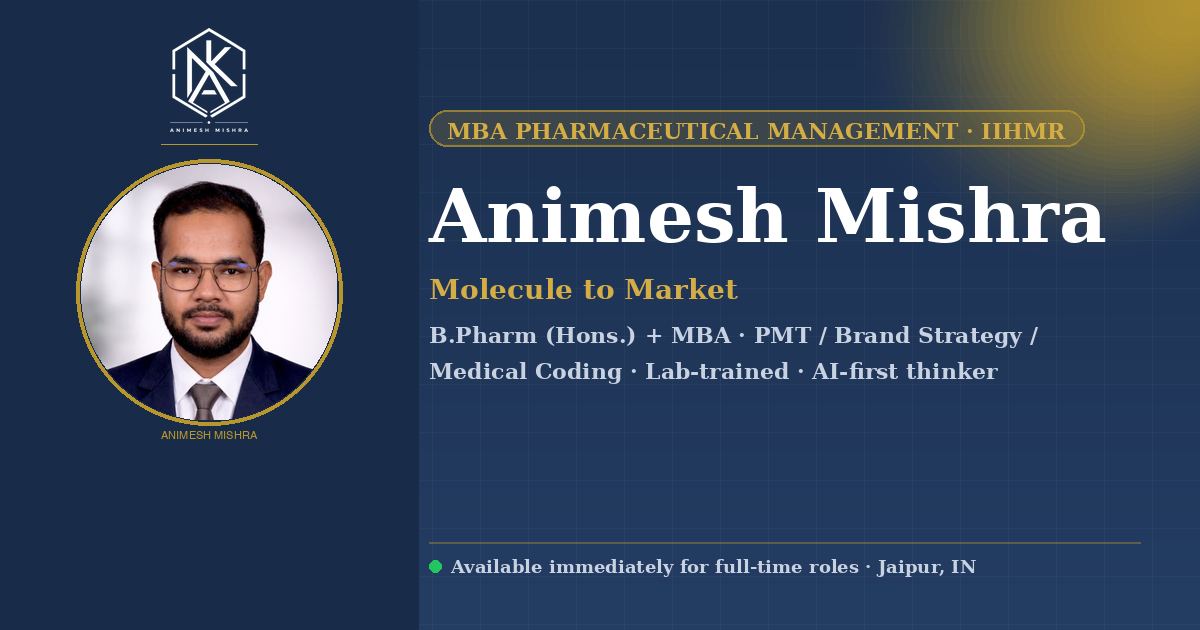
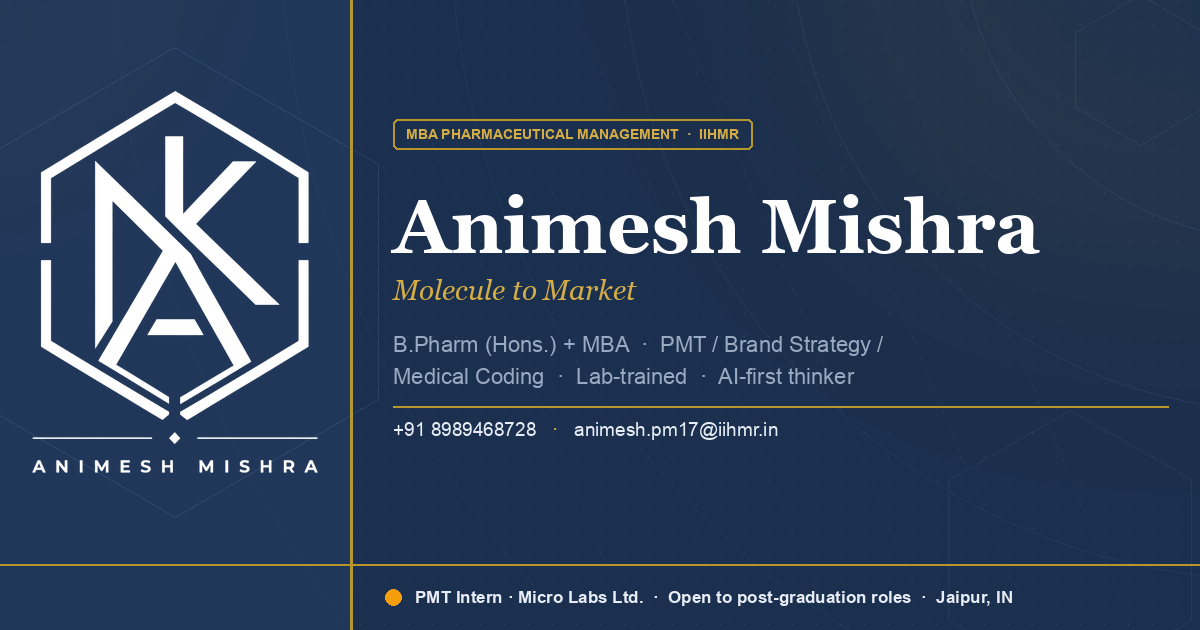
Polish cert search UI, redesign OG card with background geometry
- Replace cert <select> filter with pill buttons matching .sk-tag design
  system; search input now pill-shaped with inset icon
- OG card: full logo left panel, navy/gold background dome arcs + hex
  echoes, phone/email contact line, amber dot + internship status bar
- Add gen_og.py as reproducible source for og-card.png

diff --git a/index.html b/index.html
@@ -2244,29 +2244,71 @@
     /* ─── CERTIFICATIONS ─── */
     .cert-tools {
       display: flex;
-      gap: 12px;
+      gap: 16px;
       align-items: center;
       margin: 18px 0 26px;
       flex-wrap: wrap
     }
 
-    .cert-tools input,
-    .cert-tools select {
-      border: 1px solid var(--c-border);
+    .cert-search-wrap {
+      position: relative;
+      flex: 1;
+      min-width: 220px;
+      max-width: 340px
+    }
+
+    .cert-search-ico {
+      position: absolute;
+      left: 14px;
+      top: 50%;
+      transform: translateY(-50%);
+      color: var(--c-muted);
+      font-size: .82rem;
+      pointer-events: none
+    }
+
+    .cert-tools input {
+      border: 1.5px solid var(--c-border);
       background: var(--c-white);
       color: var(--c-text);
-      padding: 10px 14px;
-      border-radius: var(--r-sm);
+      padding: 9px 14px 9px 36px;
+      border-radius: 100px;
       font-size: .85rem;
-      min-width: 200px;
+      font-family: 'Inter', sans-serif;
+      width: 100%;
       outline: none;
       transition: border-color .3s, box-shadow .3s
     }
 
-    .cert-tools input:focus,
-    .cert-tools select:focus {
+    .cert-tools input:focus {
       border-color: var(--c-gold);
       box-shadow: 0 0 0 3px rgba(184, 150, 46, 0.15)
+    }
+
+    .cert-filter-pills {
+      display: flex;
+      flex-wrap: wrap;
+      gap: 8px;
+      align-items: center
+    }
+
+    .cert-fpill {
+      padding: 7px 16px;
+      background: var(--c-light);
+      border-radius: 100px;
+      font-size: .78rem;
+      color: var(--c-mid);
+      font-weight: 500;
+      border: none;
+      cursor: pointer;
+      font-family: 'Inter', sans-serif;
+      transition: background .22s, color .22s
+    }
+
+    .cert-fpill:hover,
+    .cert-fpill.active {
+      background: var(--c-navy);
+      color: #fff
     }
 
     .cert-empty {
@@ -2973,11 +3015,21 @@
       color: #000;
     }
 
-    [data-theme="dark"] .cert-tools input,
-    [data-theme="dark"] .cert-tools select {
+    [data-theme="dark"] .cert-tools input {
       background: var(--c-off);
       color: var(--c-text);
       border-color: var(--c-border);
+    }
+
+    [data-theme="dark"] .cert-fpill {
+      background: var(--c-light);
+      color: var(--c-mid);
+    }
+
+    [data-theme="dark"] .cert-fpill:hover,
+    [data-theme="dark"] .cert-fpill.active {
+      background: var(--c-navy-2);
+      color: #fff;
     }
 
     [data-theme="dark"] .quick-bar {
@@ -5620,14 +5672,17 @@
         <div class="s-rule"></div>
       </div>
       <div class="cert-tools">
-        <input id="certSearch" type="search" placeholder="Search certificates or issuers" aria-label="Search certificates">
-        <select id="certFilter" aria-label="Filter certificates">
-          <option value="all">All statuses</option>
-          <option value="completed">Completed</option>
-          <option value="awarded">Awarded</option>
-          <option value="certified">Certified</option>
-          <option value="qualified">Qualified</option>
-        </select>
+        <div class="cert-search-wrap">
+          <i class="fas fa-search cert-search-ico" aria-hidden="true"></i>
+          <input id="certSearch" type="search" placeholder="Search certificates or issuers" aria-label="Search certificates">
+        </div>
+        <div class="cert-filter-pills" role="group" aria-label="Filter by status">
+          <button class="cert-fpill active" data-filter="all" type="button">All</button>
+          <button class="cert-fpill" data-filter="completed" type="button">Completed</button>
+          <button class="cert-fpill" data-filter="awarded" type="button">Awarded</button>
+          <button class="cert-fpill" data-filter="certified" type="button">Certified</button>
+          <button class="cert-fpill" data-filter="qualified" type="button">Qualified</button>
+        </div>
       </div>
       <div class="cert-grid">
         <div class="cert-card featured sr up" style="transition-delay:.04s" data-modal="cert1">
@@ -6045,18 +6100,17 @@
 
     // ── Certificates filter/search
     const certSearch = document.getElementById('certSearch');
-    const certFilter = document.getElementById('certFilter');
     const certCards = [...document.querySelectorAll('.cert-card')];
     const certEmpty = document.getElementById('certEmpty');
+    let certActiveFilter = 'all';
     function filterCerts() {
       const q = (certSearch?.value || '').toLowerCase().trim();
-      const status = (certFilter?.value || 'all').toLowerCase();
       let visible = 0;
       certCards.forEach(card => {
         const text = card.textContent.toLowerCase();
         const statusText = (card.querySelector('.cert-status')?.textContent || '').toLowerCase();
         const matchesQuery = !q || text.includes(q);
-        const matchesStatus = status === 'all' || statusText.includes(status);
+        const matchesStatus = certActiveFilter === 'all' || statusText.includes(certActiveFilter);
         const show = matchesQuery && matchesStatus;
         card.style.display = show ? 'flex' : 'none';
         if (show) visible++;
@@ -6064,7 +6118,14 @@
       if (certEmpty) certEmpty.style.display = visible ? 'none' : 'block';
     }
     if (certSearch) certSearch.addEventListener('input', filterCerts);
-    if (certFilter) certFilter.addEventListener('change', filterCerts);
+    document.querySelectorAll('.cert-fpill').forEach(pill => {
+      pill.addEventListener('click', () => {
+        document.querySelectorAll('.cert-fpill').forEach(p => p.classList.remove('active'));
+        pill.classList.add('active');
+        certActiveFilter = pill.dataset.filter;
+        filterCerts();
+      });
+    });
 
     // ── "Fit For Role" hero switch — swap bio prose + emphasise matching projects
     (function () {

diff --git a/gen_og.py b/gen_og.py
@@ -1,0 +1,216 @@
+"""
+OG card generator — 1200×630  (polished)
+Run: python3 gen_og.py
+"""
+
+from PIL import Image, ImageDraw, ImageFont, ImageFilter
+import os, math
+
+BASE = os.path.dirname(os.path.abspath(__file__))
+W, H = 1200, 630
+
+NAVY     = (27,  47,  78)
+NAVY_2   = (33,  55,  90)
+GOLD     = (184, 150, 46)
+GOLD_LT  = (212, 174, 69)
+WHITE    = (255, 255, 255)
+OFF_W    = (232, 237, 245)   # near-white for secondary text
+TEXT_DIM = (155, 170, 195)   # descriptor / muted
+AMBER    = (245, 158, 11)
+
+LEFT_W   = 350
+PANEL_MX = LEFT_W // 2       # 175
+BAR_H    = 66
+BAR_Y    = H - BAR_H         # 564
+
+FONT_ROOT = "/System/Library/Fonts/Supplemental"
+def F(name, size):
+    return ImageFont.truetype(os.path.join(FONT_ROOT, name), size)
+
+
+# ── 1. Background ─────────────────────────────────────────────────────────────
+card = Image.new("RGBA", (W, H), (*NAVY, 255))
+
+def glow(cx, cy, r, rgb, amax):
+    b = Image.new("RGBA", (W, H), (0, 0, 0, 0))
+    d = ImageDraw.Draw(b)
+    for i in range(6):
+        f  = i / 5
+        rd = int(r * (1 - f * 0.7))
+        a  = int(amax * (1 - f))
+        d.ellipse([cx-rd, cy-rd, cx+rd, cy+rd], fill=(*rgb, a))
+    return b.filter(ImageFilter.GaussianBlur(r // 3))
+
+# warm gold burst top-right (matches reference)
+card = Image.alpha_composite(card, glow(1110, -30, 340, (210, 165, 38), 34))
+# soft cold-blue depth bottom-left
+card = Image.alpha_composite(card, glow(-20, 650, 240, (20, 40, 70), 40))
+
+# dot grid — pure RGBA layer so dots never bleed into text
+dots = Image.new("RGBA", (W, H), (0, 0, 0, 0))
+dd = ImageDraw.Draw(dots)
+for x in range(0, W, 24):
+    for y in range(0, H, 24):
+        dd.ellipse([x-1, y-1, x+1, y+1], fill=(255, 255, 255, 10))
+card = Image.alpha_composite(card, dots)
+
+
+# ── 2. Left panel ─────────────────────────────────────────────────────────────
+card.alpha_composite(Image.new("RGBA", (LEFT_W, H), (*NAVY_2, 255)), (0, 0))
+
+# subtle inner gold glow top-left for depth
+card = Image.alpha_composite(card, glow(-30, -30, 260, GOLD, 18))
+
+# crisp gold vertical separator (full opacity, 3 px)
+card.alpha_composite(Image.new("RGBA", (3, H), (*GOLD, 255)), (LEFT_W, 0))
+
+
+# ── 2b. Background geometry (drawn after panels so it overlays both) ──────────
+geo = Image.new("RGBA", (W, H), (0, 0, 0, 0))
+gd  = ImageDraw.Draw(geo)
+
+# concentric arc rings centred just off top-right corner → sweeping dome arcs
+ARC_CX, ARC_CY = W + 80, -80
+arc_alphas = [52, 44, 36, 28, 20, 13]
+for alpha, r in zip(arc_alphas, [320, 490, 660, 830, 1000, 1170]):
+    gd.ellipse([ARC_CX - r, ARC_CY - r, ARC_CX + r, ARC_CY + r],
+               outline=(80, 118, 170, alpha), width=1)
+
+# hexagon helper
+def hex_pts(cx, cy, r, rot=30):
+    return [(cx + r * math.cos(math.radians(60*i + rot)),
+             cy + r * math.sin(math.radians(60*i + rot))) for i in range(6)]
+
+# large ghost hex over left panel — echoes the logo shape
+h1 = hex_pts(PANEL_MX, BAR_Y // 2, 235)
+gd.line(h1 + [h1[0]], fill=(105, 148, 205, 48), width=1)
+
+# medium accent hex bottom-right
+h2 = hex_pts(W - 130, H - 80, 140)
+gd.line(h2 + [h2[0]], fill=(90, 128, 185, 36), width=1)
+
+# small accent hex top-right (near the glow)
+h3 = hex_pts(W - 60, 70, 75)
+gd.line(h3 + [h3[0]], fill=(130, 165, 210, 30), width=1)
+
+# subtle diagonal line grid on right panel only
+for offset in range(20, 550, 100):
+    x0 = LEFT_W + 3 + offset
+    gd.line([(x0, 0), (x0 + 260, H)], fill=(65, 95, 145, 18), width=1)
+
+card = Image.alpha_composite(card, geo)
+
+
+# ── 3. Full logo — large, centred in left panel ───────────────────────────────
+LOGO_W = 286
+try:
+    logo_raw = Image.open(os.path.join(BASE, "logo-dark.png")).convert("RGBA")
+    lw, lh   = logo_raw.size                   # 670 × 895
+    logo_h   = int(lh / lw * LOGO_W)           # ≈ 382 px
+
+    ly = (BAR_Y - logo_h) // 2                 # perfectly centred above bar
+    lx = PANEL_MX - LOGO_W // 2
+
+    logo_img = logo_raw.resize((LOGO_W, logo_h), Image.LANCZOS)
+    card.alpha_composite(logo_img, (lx, ly))
+except Exception as e:
+    print(f"Logo error: {e}")
+
+
+# ── 4. Right panel ────────────────────────────────────────────────────────────
+RP_X   = LEFT_W + 3 + 40    # past separator + breathing room
+R_PAD  = 32                  # right-edge padding
+
+draw = ImageDraw.Draw(card)
+
+# fonts
+kf = F("Arial Bold.ttf",    14)
+nf = F("Georgia Bold.ttf",  76)
+tf = F("Georgia Italic.ttf", 28)
+df = F("Arial.ttf",          22)
+cf = F("Arial.ttf",          19)
+sf = F("Arial Bold.ttf",     17)
+
+# row heights (measured / approximated)
+KH = 30   # kicker badge
+NH = 80   # name  (76pt Georgia Bold)
+TH = 32   # tagline
+DH = 62   # descriptor 2-liner  (22pt × 2 + gap)
+CH = 26   # contact line
+
+# inter-element gaps
+G_KN = 34   # kicker  → name
+G_NT = 11   # name    → tagline
+G_TD = 26   # tagline → descriptor
+G_DC = 24   # descriptor → contact
+
+content_h = KH + G_KN + NH + G_NT + TH + G_TD + DH + G_DC + CH
+rp_top    = (BAR_Y - content_h) // 2    # vertically centres block
+
+KY = rp_top
+NY = KY + KH  + G_KN
+TY = NY + NH  + G_NT
+DY = TY + TH  + G_TD
+CY = DY + DH  + G_DC
+
+
+# — kicker badge  ─────────────────────────────────────────────────────────────
+kicker = "MBA PHARMACEUTICAL MANAGEMENT  ·  IIHMR"
+ktw    = draw.textlength(kicker, font=kf)
+kph, kpv = 13, 8
+draw.rounded_rectangle(
+    [RP_X, KY, RP_X + ktw + kph*2, KY + KH],
+    radius=5, outline=(*GOLD, 230), width=2      # 2 px border — crisper
+)
+draw.text((RP_X + kph, KY + kpv - 1), kicker, font=kf, fill=GOLD_LT)
+
+
+# — name  ─────────────────────────────────────────────────────────────────────
+draw.text((RP_X, NY), "Animesh Mishra", font=nf, fill=WHITE)
+
+
+# — tagline  ──────────────────────────────────────────────────────────────────
+draw.text((RP_X, TY), "Molecule to Market", font=tf, fill=GOLD_LT)
+
+
+# — descriptor  ───────────────────────────────────────────────────────────────
+draw.text((RP_X, DY),      "B.Pharm (Hons.) + MBA  ·  PMT / Brand Strategy /",    font=df, fill=TEXT_DIM)
+draw.text((RP_X, DY + 32), "Medical Coding  ·  Lab-trained  ·  AI-first thinker", font=df, fill=TEXT_DIM)
+
+
+# — contact line  (phone gold-dot email, each segment coloured) ───────────────
+rule_y = CY - 12
+draw.rectangle([RP_X, rule_y, W - R_PAD, rule_y + 1], fill=(*GOLD, 100))
+
+phone = "+91 8989468728"
+sep   = "   ·   "
+email = "animesh.pm17@iihmr.in"
+
+pw = draw.textlength(phone, font=cf)
+sw = draw.textlength(sep,   font=cf)
+
+draw.text((RP_X,            CY), phone, font=cf, fill=OFF_W)
+draw.text((RP_X + pw,       CY), sep,   font=cf, fill=GOLD_LT)
+draw.text((RP_X + pw + sw,  CY), email, font=cf, fill=OFF_W)
+
+
+# ── 5. Status bar  ────────────────────────────────────────────────────────────
+# full-width gold rule
+draw.rectangle([0, BAR_Y, W, BAR_Y + 1], fill=(*GOLD, 140))
+
+# amber dot — slightly larger
+DOT_X  = RP_X
+DOT_CY = BAR_Y + BAR_H // 2
+R      = 8
+draw.ellipse([DOT_X-R, DOT_CY-R, DOT_X+R, DOT_CY+R], fill=AMBER)
+
+draw.text(
+    (DOT_X + 22, BAR_Y + (BAR_H - 20) // 2),
+    "PMT Intern · Micro Labs Ltd.  ·  Open to post-graduation roles  ·  Jaipur, IN",
+    font=sf, fill=OFF_W
+)
+
+
+# ── 6. Save  ──────────────────────────────────────────────────────────────────
+card.convert("RGB").save(os.path.join(BASE, "og-card.png"), "PNG", optimize=True)
+print(f"Saved → og-card.png  ({W}×{H})")
